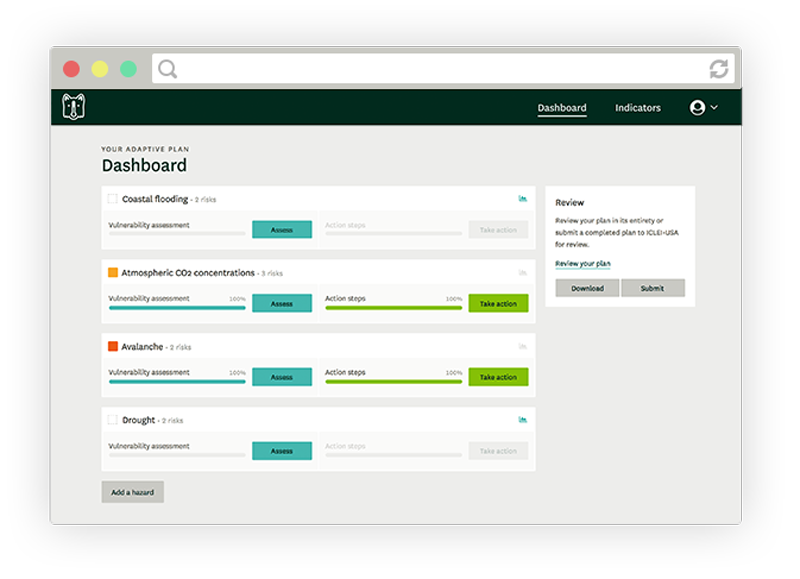
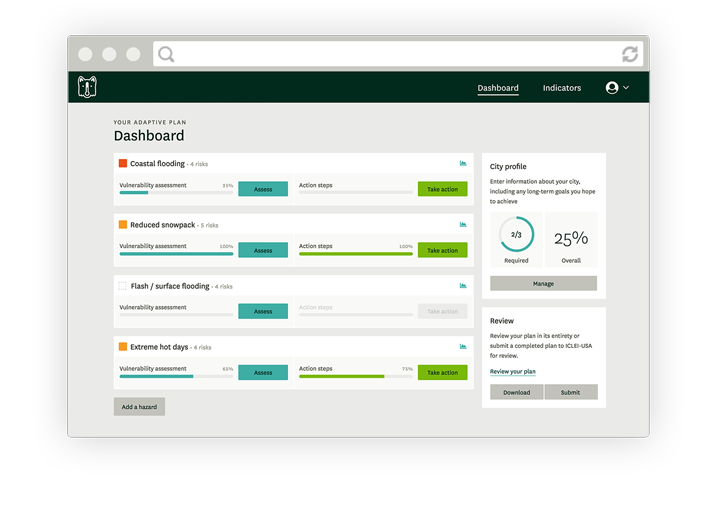
Higher resolution marketing images using srcset and alt text for pricing page hero image

diff --git a/src/angular/planit/src/app/marketing/marketing.component.html b/src/angular/planit/src/app/marketing/marketing.component.html
@@ -22,7 +22,9 @@
     <section class="section-data">
       <div class="section-content">
         <div class="image-container">
-          <img src="/assets/images/marketing/browser_inapp.png" class="image browser-image" alt="Three overlapping browser illustrations highlighting areas of the Temperate app, including: A descriptive chart detailing the calculation of a risk's adaptive need, a modal with suggested actions to undertake, and a page with interactive charts">
+          <img srcset="/assets/images/marketing/browser_inapp.png 1x, /assets/images/marketing/browser_inapp@2x.png 2x"
+              class="image browser-image" 
+              src="/assets/images/marketing/browser_inapp.png" alt="Three overlapping browser screenshots highlighting areas of the Temperate app, including: A descriptive chart detailing the calculation of a risk's adaptive need, a page with risks that a user has decided to take action upon, and a page with interactive charts for various climate indicators">
         </div>
         <div class="overview">
           <h2 class="heading">Dependable data specific to your city</h2>

diff --git a/src/angular/planit/src/app/marketing/pricing.component.html b/src/angular/planit/src/app/marketing/pricing.component.html
@@ -17,7 +17,9 @@
             <div class="secondary-text">or select a package below</div>
           </div>
         </div>
-        <img class="image" src="assets/images/pricing/hero.png" alt="">
+        <img srcset="/assets/images/pricing/hero.png 1x, /assets/images/pricing/hero@2x.png 2x"
+             class="image" 
+             src="assets/images/pricing/hero.png" alt="Screenshot of the a Temperate user's dashboard, detailing their progress on assessing and creating actions for Coastal flooding, Reduced snowpack, flash / surface flooding and extreme hot day risks. All have varying levels of completion.">
       </div>
     </section>
     <section class="pricing-plans pricing-section" id="plans-section">
